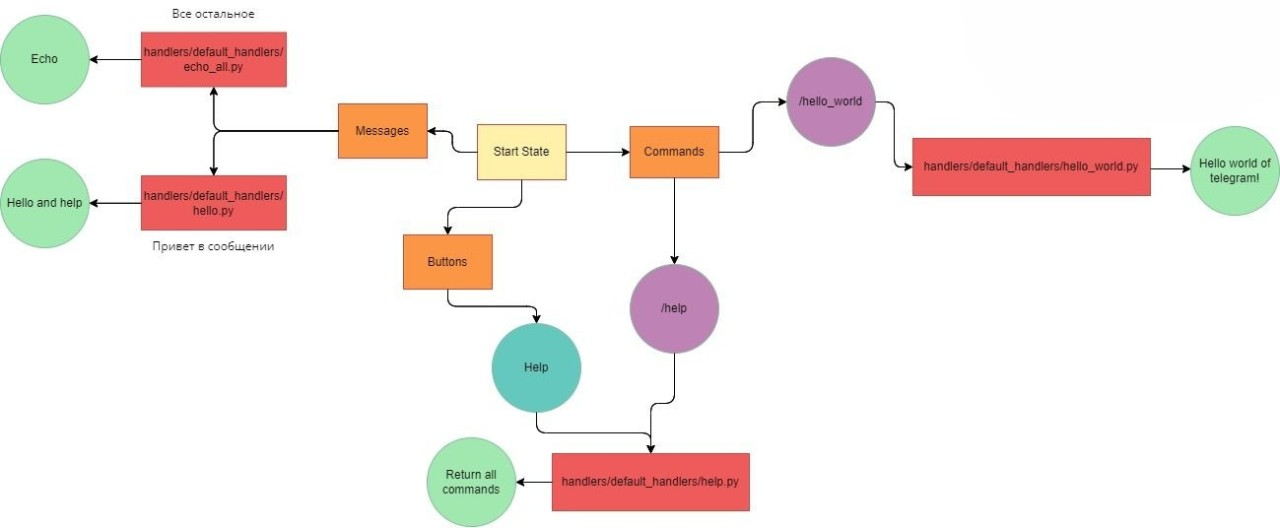
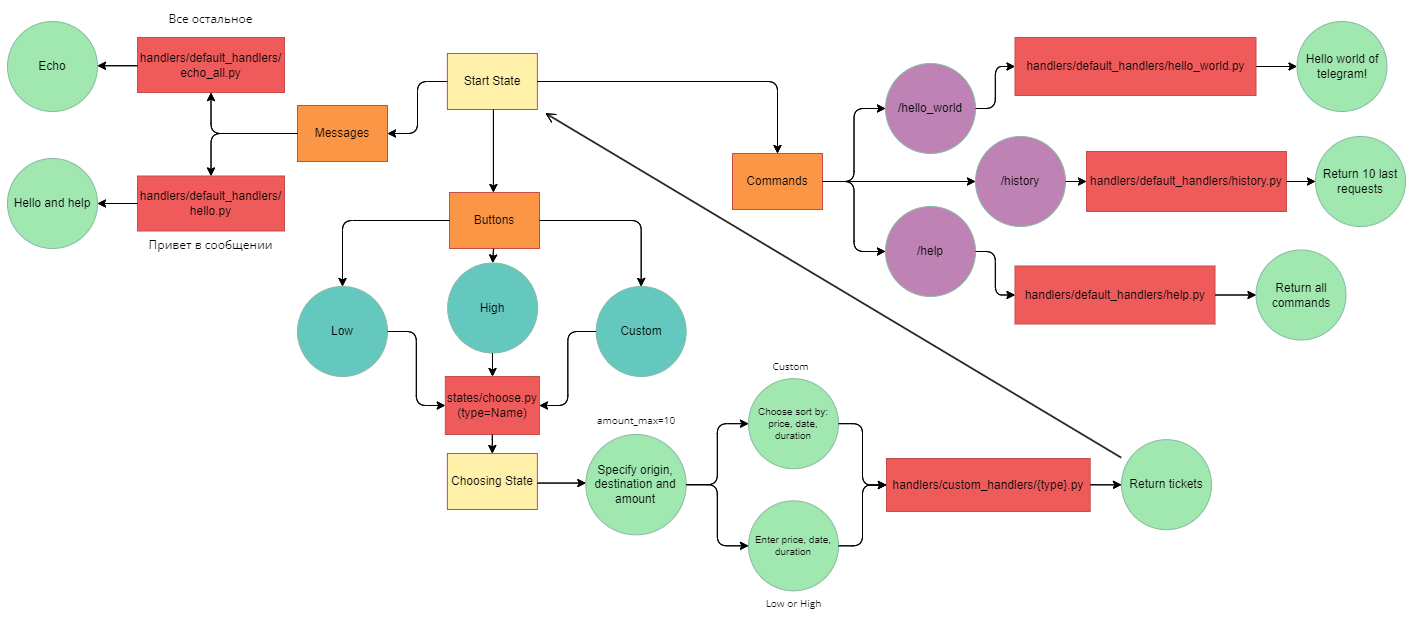
Написан код для /low, /high, /menu, написано обьяснение работы этих команд в README.md

diff --git a/handlers/custom_handlers/low_high.py b/handlers/custom_handlers/low_high.py
@@ -1,0 +1,53 @@
+import requests
+import json
+from telebot.types import Message, ReplyKeyboardRemove
+from loader import bot, MyStates, bot_type, base_request
+from config_data.config import API_KEY
+
+
+@bot.message_handler(func=lambda message: message.text in ('Low', 'High'), state=MyStates.start)
+def bot_low(message: Message) -> None:
+    global bot_type
+    bot.send_message(message.chat.id, 'Введите через запятую IATA-коды городов отправления и назначения, а также количество выводимых билетов(от 1 до 30)\n'
+                                      'Пример: TJM, MOW, 5\n'
+                                      'Показывает 5 билетов из Тюмени в Москву', reply_markup=ReplyKeyboardRemove())
+    bot.set_state(message.from_user.id, MyStates.choose, message.chat.id)
+    bot_type = message.text
+
+
+@bot.message_handler(func=lambda x: bot_type in ('Low', 'High'), state=MyStates.choose)
+def bot_low_choose(message: Message) -> None:
+    global low_request, bot_type
+    low_request = dict(base_request)
+    data = message.text.split(', ')
+    if len(data) != 3:
+        bot.reply_to(message, 'Введено недостаточно данных либо не верный синтаксис, попробуйте снова!')
+        return None
+    low_request['origin'] = data[0]
+    low_request['destination'] = data[1]
+    if 1 <= int(data[2]) <= 30:
+        low_request['amount'] = int(data[2])
+    else:
+        low_request['amount'] = 30
+    bot.send_message(message.chat.id,
+                     'Введите по какому параметру отфильтровать билеты:\n'
+                     'Цена, дата или длительность')  # (Время между прилетом в место назначения и отбытием обратно)
+    bot.set_state(message.from_user.id, MyStates.request_state, message.chat.id)
+
+
+@bot.message_handler(func=lambda x: bot_type in ('Low', 'High'), state=MyStates.request_state)
+def bot_low_choose(message: Message) -> None:
+    global bot_type, low_request
+    msg = message.text.lower()
+    if msg in ('цена', 'дата', 'длительность'):
+        action = {'цена': 'value', 'дата': 'depart_date', 'длительность': 'duration'}
+        req_url = f'https://api.travelpayouts.com/v2/prices/month-matrix?currency=rub&origin={low_request['origin']}&destination={low_request['destination']}&show_to_affiliates=true&token={API_KEY}'
+        response = requests.get(req_url).text
+        req_data = json.loads(response)
+        answer = '\n'.join([f'Билет {i+1} \n Цена: {ticket['value']} \nДата отправления: {ticket['depart_date']} \nДлительность: {ticket['duration']}\n' for i, ticket in enumerate(sorted(req_data['data'], key=lambda x: x[action[msg]], reverse=bot_type == 'High'))][0:low_request['amount']])
+        bot.send_message(message.chat.id, 'По вашему запросу были найдены билеты:\n'
+                                          f'{answer}')
+        bot_type = None
+        bot.set_state(message.from_user.id, MyStates.start, message.chat.id)
+    else:
+        bot.send_message(message.chat.id, 'Введен не существующий фильтр')

diff --git a/config_data/config.py b/config_data/config.py
@@ -7,8 +7,20 @@ else:
     load_dotenv()
 
 BOT_TOKEN = os.getenv("BOT_TOKEN")
-RAPID_API_KEY = os.getenv("RAPID_API_KEY")
+API_KEY = os.getenv("API_KEY")
 DEFAULT_COMMANDS = (
     ("hello_world", "Вывести hello world"),
-    ("help", "Вывести справку")
+    ("help", "Вывести справку"),
+    ("menu", "Показывает доступные кнопки действий")
 )
+request_params = {
+    'origin': '',
+    'destination': '',
+    'amount': 1,
+    'price_min': 0,
+    'price_max': 100000,
+    'start_date': 1,
+    'end_date': 31,
+    'min_duration': 1,
+    'max_duration': 31
+}

diff --git a/handlers/default_handlers/hello.py b/handlers/default_handlers/hello.py
@@ -1,8 +1,9 @@
 from telebot.types import Message
-from loader import bot
+from loader import bot, MyStates
 
 
-@bot.message_handler(func=lambda message: 'привет' in message.text.lower())
+@bot.message_handler(func=lambda message: 'привет' in message.text.lower() or message.text == '/start')
 def bot_hello(message: Message) -> None:
     bot.reply_to(message, f'Здравствуй {message.from_user.full_name}!\n'
                           'Чтобы узнать все доступные комманды введите /help')
+    bot.set_state(message.from_user.id, MyStates.start, message.chat.id)

diff --git a/handlers/default_handlers/echo_all.py b/handlers/default_handlers/echo_all.py
@@ -1,12 +1,13 @@
 from telebot.types import Message
-from loader import bot
+from loader import bot, MyStates
 
 
 # Эхо хендлер, куда летят текстовые сообщения без указанного состояния
-@bot.message_handler(state=None)
+@bot.message_handler(state=None, func=lambda message: True)
 def bot_echo(message: Message):
     bot.reply_to(
         message,
         'Эхо без состояния или фильтра.\n' 
         f'Сообщение: {message.text}'
     )
+    bot.set_state(message.from_user.id, MyStates.start, message.chat.id)

diff --git a/keyboards/reply/start_buttons.py b/keyboards/reply/start_buttons.py
@@ -1,0 +1,12 @@
+from loader import bot, MyStates
+from telebot import types
+
+
+@bot.message_handler(state=MyStates.start, commands=['menu'])
+def start(message):
+    markup = types.ReplyKeyboardMarkup(row_width=2)
+    btn_low = types.KeyboardButton("Low")
+    btn_high = types.KeyboardButton("High")
+    # item3 = types.KeyboardButton("Custom")
+    markup.add(btn_low, btn_high)
+    bot.reply_to(message, "Выберите кнопку:", reply_markup=markup)

diff --git a/handlers/default_handlers/help.py b/handlers/default_handlers/help.py
@@ -1,10 +1,10 @@
 from telebot.types import Message
 
 from config_data.config import DEFAULT_COMMANDS
-from loader import bot
+from loader import bot, MyStates
 
 
-@bot.message_handler(commands=['help'])
+@bot.message_handler(commands=['help'], state=MyStates.start)
 def bot_help(message: Message):
     text = [f"/{command} - {desk}" for command, desk in DEFAULT_COMMANDS]
     bot.reply_to(message, "\n".join(text))

diff --git a/loader.py b/loader.py
@@ -1,6 +1,13 @@
 from telebot import TeleBot
 from telebot.storage import StateMemoryStorage
+from telebot import custom_filters
 from config_data import config
+from states.mystates import MyStates
 
+
+base_request = config.request_params
 storage = StateMemoryStorage()
 bot = TeleBot(token=config.BOT_TOKEN, state_storage=storage)
+bot_type = None
+bot.add_custom_filter(custom_filters.StateFilter(bot))
+

diff --git a/handlers/default_handlers/hello_world.py b/handlers/default_handlers/hello_world.py
@@ -1,7 +1,7 @@
 from telebot.types import Message
-from loader import bot
+from loader import bot, MyStates
 
 
-@bot.message_handler(commands=['hello_world'])
+@bot.message_handler(commands=['hello_world'], state=MyStates.start)
 def bot_hello_world(message: Message):
     bot.reply_to(message, 'Hello world of telegram!')

diff --git a/main.py b/main.py
@@ -1,8 +1,8 @@
 from loader import bot
+import keyboards
 import handlers
 from utils.set_bot_commands import set_default_commands
 
 if __name__ == "__main__":
     set_default_commands(bot)
     bot.infinity_polling()
-

diff --git a/states/mystates.py b/states/mystates.py
@@ -1,0 +1,7 @@
+from telebot.handler_backends import State, StatesGroup
+
+
+class MyStates(StatesGroup):
+    start = State()
+    choose = State()
+    request_state = State()

diff --git a/handlers/default_handlers/__init__.py b/handlers/default_handlers/__init__.py
@@ -1,4 +1,6 @@
 from . import hello
 from . import help
 from . import hello_world
+from . import history
 from . import echo_all
+

diff --git a/keyboards/reply/__init__.py b/keyboards/reply/__init__.py
@@ -1,0 +1,1 @@
+from . import start_buttons
